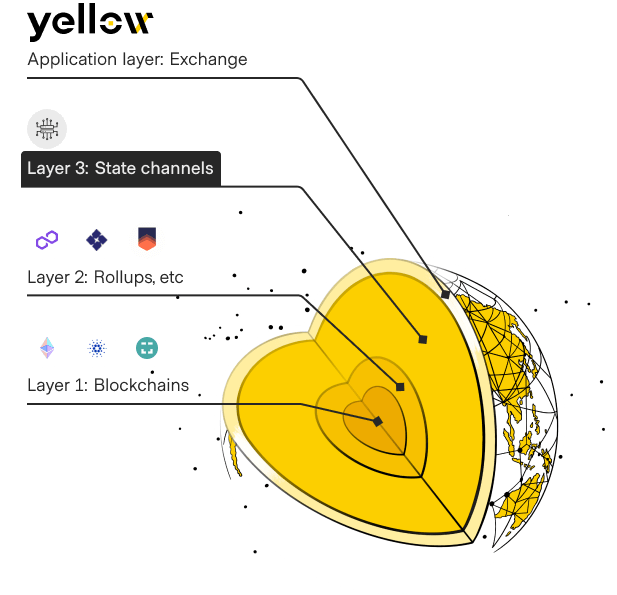
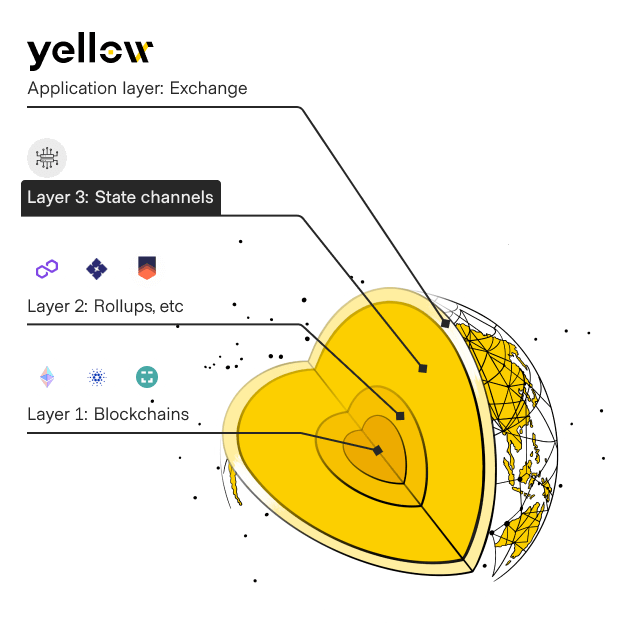
Improve images quality (#78)
* improve images quality (desktop/mobile)

* optimize loading images for different resolutions (load only needed)

Changed region(s): [[0.0308, 0.0, 0.9238, 0.9378]]

diff --git a/src/components/Tokenomics/index.js b/src/components/Tokenomics/index.js
@@ -44,14 +44,11 @@ export default function Tokenomics() {
                     </div>
 
                     <div className="col col--6">
-                        <img
-                            className="tokenomics__img-desktop section__main-img"
-                            src={useBaseUrl("/img/components/tokenomics_pie_chart.png")}
-                        />
-                        <img
-                            className="tokenomics__img-mobile"
-                            src={useBaseUrl("/img/components/tokenomics_pie_chart_mobile.png")}
-                        />
+                        <picture>
+                            <source media="(min-width: 426px)" srcSet={useBaseUrl('/img/components/tokenomics_pie_chart.png')} />
+                            <source media="(max-width: 425px)" srcSet={useBaseUrl('/img/components/tokenomics_pie_chart_mobile.png')} />
+                            <img className="section__main-img" src={useBaseUrl('/img/components/tokenomics_pie_chart.png')} />
+                        </picture>
                     </div>
                 </div>
             </div>

diff --git a/src/components/HowItWorks/index.js b/src/components/HowItWorks/index.js
@@ -36,8 +36,11 @@ export default function HowItWorks() {
                     </div>
 
                     <div className="col col--6">
-                        <img className="how-it-works__img-desktop section__main-img" src={useBaseUrl('/img/components/how_it_works.png')} />
-                        <img className="how-it-works__img-mobile" src={useBaseUrl('/img/components/how_it_works_mobile.png')} />
+                        <picture>
+                            <source media="(min-width: 426px)" srcSet={useBaseUrl('/img/components/how_it_works.png')} />
+                            <source media="(max-width: 425px)" srcSet={useBaseUrl('/img/components/how_it_works_mobile.png')} />
+                            <img className="section__main-img" src={useBaseUrl('/img/components/how_it_works.png')} />
+                        </picture>
                     </div>
                 </div>
             </div>

diff --git a/src/components/Roadmap/index.js b/src/components/Roadmap/index.js
@@ -23,8 +23,11 @@ export default function Roadmap() {
                     </div>
 
                     <div className="col col--6">
-                        <img src={useBaseUrl('/img/components/roadmap.svg')} className="roadmap__img-desktop section__main-img" />
-                        <img src={useBaseUrl('/img/components/roadmap_mobile.svg')} className="roadmap__img-mobile" />
+                        <picture>
+                            <source media="(min-width: 426px)" srcSet={useBaseUrl('/img/components/roadmap.png')} />
+                            <source media="(max-width: 425px)" srcSet={useBaseUrl('/img/components/roadmap_mobile.svg')} />
+                            <img className="section__main-img" src={useBaseUrl('/img/components/roadmap.png')} />
+                        </picture>
                     </div>
                 </div>
             </div>

diff --git a/src/components/XLN/index.js b/src/components/XLN/index.js
@@ -30,7 +30,11 @@ export default function XLN() {
             <div className="container xln">
                 <div className="row">
                     <div className="col col--6">
-                        <img className="section__main-img" src={useBaseUrl('/img/components/xln.png')} />
+                        <picture>
+                            <source media="(min-width: 426px)" srcSet={useBaseUrl('/img/components/xln.png')} />
+                            <source media="(max-width: 425px)" srcSet={useBaseUrl('/img/components/xln_mobile.png')} />
+                            <img className="section__main-img" src={useBaseUrl('/img/components/xln.png')} />
+                        </picture>
                     </div>
                     <div className="col col--6">
                         <span className="highlight">Features</span>

diff --git a/src/components/Roadmap/styles.scss b/src/components/Roadmap/styles.scss
@@ -10,20 +10,15 @@
     transform: translate(-50%, -50%);
   }
 
-  &__img-desktop {
-    height: 100%;
+  .section__main-img {
     position: relative;
     top: 100px;
-  }
-
-  &__img-mobile {
-    display: none;
   }
 
   @media screen and (max-width: 996px) {
     padding: var(--landing-block-padding) 0 !important;
 
-    &__img-desktop {
+    .section__main-img {
       top: 20px;
     }
   }
@@ -31,12 +26,7 @@
   @media screen and (max-width: 425px) {
     padding-bottom: 72px !important;
 
-    &__img-desktop {
-      display: none;
-    }
-
-    &__img-mobile {
-      display: block;
+    .section__main-img {
       margin-top: 40px;
     }
   }

diff --git a/src/components/HowItWorks/styles.scss b/src/components/HowItWorks/styles.scss
@@ -8,15 +8,9 @@
     margin-top: -18px;
   }
 
-  &__img-desktop {
-    width: 100%;
+  .section__main-img {
     position: relative;
     bottom: 55px;
-  }
-
-  &__img-mobile {
-    display: none;
-    margin-top: 70px;
   }
 
   @media screen and (max-width: 996px) {
@@ -24,19 +18,15 @@
       padding: var(--landing-block-padding) 0;
     }
 
-    &__img-desktop {
+    .section__main-img {
       bottom: 0;
       top: 40px;
     }
   }
 
   @media screen and (max-width: 425px) {
-    &__img-desktop {
-      display: none;
-    }
-
-    &__img-mobile {
-      display: block;
+    .section__main-img {
+      margin-top: 70px;
     }
   }
 }

diff --git a/src/components/Hero/index.js b/src/components/Hero/index.js
@@ -34,7 +34,11 @@ export default function Hero() {
                         </div>
                     </div>
                     <div className="col col--5 hero-img">
+                    <picture>
+                        <source media="(min-width: 426px)" srcSet={useBaseUrl('/img/hero.png')} />
+                        <source media="(max-width: 425px)" srcSet={useBaseUrl('/img/hero_mobile.png')} />
                         <img className="section__main-img" src={useBaseUrl('/img/hero.png')} />
+                    </picture>
                     </div>
                 </div>
             </div>

diff --git a/src/components/Tokenomics/styles.scss b/src/components/Tokenomics/styles.scss
@@ -5,13 +5,9 @@
     margin-bottom: 34px;
   }
 
-  &__img-desktop {
+  .section__main-img {
     position: relative;
     bottom: 47px;
-  }
-
-  &__img-mobile {
-    display: none;
   }
 
   &__utilities-list {
@@ -23,7 +19,7 @@
   }
 
   @media screen and (max-width: 1440px) {
-    &__img-desktop {
+    .section__main-img {
       bottom: -55px;
     }
   }
@@ -33,12 +29,7 @@
   }
 
   @media screen and (max-width: 425px) {
-    &__img-desktop {
-      display: none;
-    }
-
-    &__img-mobile {
-      display: block;
+    .section__main-img {
       margin-top: 40px;
     }
   }

diff --git a/src/pages/styles.scss b/src/pages/styles.scss
@@ -86,6 +86,13 @@
   }
 }
 
+@media screen and (min-width: 1440px) {
+  .section__main-img {
+    width: initial !important;
+    max-width: initial;
+  }
+}
+
 @media screen and (max-width: 966px) {
   .section {
     &__center {
@@ -100,9 +107,8 @@
 }
 
 @media screen and (min-width: 426px) and (max-width: 996px) {
-  .section {
-    &__main-img {
-      width: 600px;
-    }
+  .section__main-img {
+    width: initial !important;
+    max-width: 100%;
   }
 }

diff --git a/src/components/FeaturesOfYellow/styles.scss b/src/components/FeaturesOfYellow/styles.scss
@@ -61,7 +61,6 @@
       grid-row-gap: 24px;
 
       .icon-block__img {
-        width: 80px;
         margin-bottom: 12px;
       }
     }
